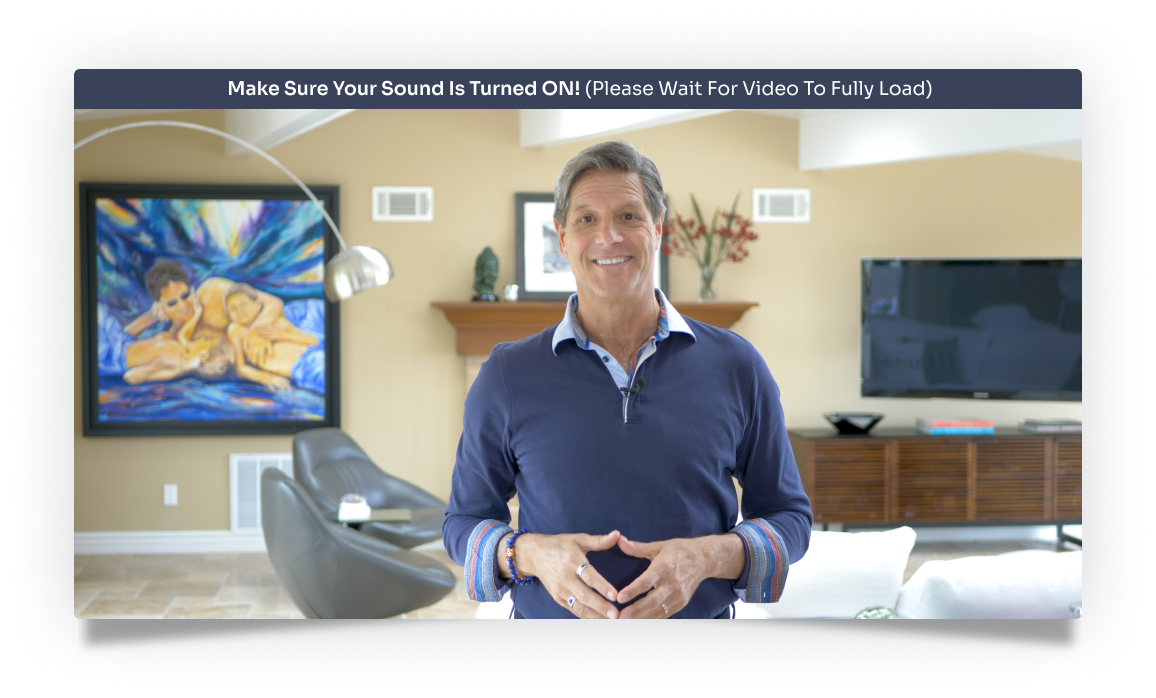
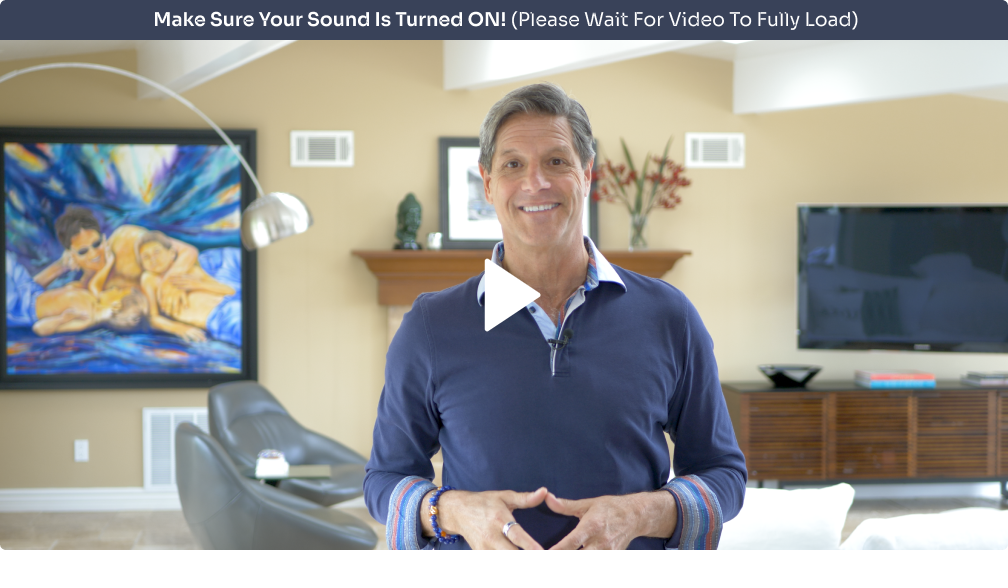
Updated the hero section background image to not move when scrolling. Updated John thumbnail for desktop. Added yellow streak to the proper lines in their respective sizes.

diff --git a/index.html b/index.html
@@ -35,78 +35,92 @@
                 <p class="m-0">ATTENTION: BUSINESS BREAKTHROUGH CHALLENGE ALUMNI MEMBERS...</p>
             </div>
         </section>
-        <section id="hero" class="container-fluid">
-            <div class="p-0 text-center mb-4">
-                <div class="row justify-content-center strategy-background">
-                    <div class="free-vip col-sm-10 col-lg-8">
-                        <p class="fw-bold text-center fs-1 text-light p-2 m-0 mt-5">Get FREE VIP ACCESS to the 5-Day
-                            Business Breakthrough Challenge</p>
+        <section id="hero">
+            <div class="container">
+                <div class="header-text justify-content-center">
+                    <h1 class="d-md-none text-center text-light" id="vip-mobile"><strong><span
+                                class="yellow-underline">Get
+                                FREE VIP</span>
+                            <br />
+                            ACCESS to the 5-Day<br /> <span id="BBC">Business
+                                Breakthrough Challenge</span></strong>
+                    </h1>
 
-                        <p class="text-center fs-4 text-light py-2 px-4 m-0">Get Instant Access to LIVE Q&As with John
-                            Assaraf
-                            for
-                            5 Days Straight
-                            (100%
-                            Free)</p>
-                    </div>
-                    <div class="row justify-content-center">
-                        <img class="img-fluid d-block d-sm-none" src="./img/video-thumbnail.png"
-                            alt="A video thumbnail of John Assaraf">
+                    <h1 class="d-none d-md-block text-center text-light"><strong><span
+                                class="yellow-underline-desktop">Get
+                                FREE VIP
+                                ACCESS</span>
+                            <br /> to the 5-Day Business <br />
+                            Breakthrough Challenge</strong>
+                    </h1>
 
-                        <img style="width: 80%;" class="img-fluid d-none d-md-block"
+                    <p class="text-center text-light m-0" id="instant-access">Get Instant Access to LIVE Q&As with
+                        <br /> John
+                        Assaraf for 5
+                        Days Straight (100% Free)
+                    </p>
+                </div>
+                <div class="row justify-content-center">
+                    <div class="col-auto">
+                        <img id="video-thumbnail-mobile" class="img-fluid d-block d-sm-none"
+                            src="./img/video-thumbnail.png" alt="A video thumbnail of John Assaraf">
+
+                        <img id="video-thumbnail" class="img-fluid d-none d-md-block"
                             src="./img/video-thumbnail-desktop.png" alt="A video thumbnail of John Assaraf">
-
-                        <div class="d-block d-sm-none">
-                            <img style="width: 80%;" class="img-fluid mb-4" src="./img/bussiness-row.png"
-                                alt="A picture of all the businesses">
-                        </div>
-
-                        <div class="d-none d-md-block">
-                            <img style="width: 80%;" class="img-fluid mb-4" src="./img/business-row-desktop.png"
-                                alt="A picture of all the businesses">
-                        </div>
-
-                        <div class="row justify-content-center align-items-center">
-                            <div class="col-auto d-none d-md-block">
-                                <img src="./img/left-vip-access-arrow.png" alt="Arrow pointing to the VIP button"
-                                    class="img-fluid">
-                            </div>
-                            <div class="col-md-auto">
-                                <a href="#" class="btn text-center rounded text-decoration-none text-light vip-access"
-                                    style="background: linear-gradient(180deg, rgba(255,163,0,1) 0%, rgba(255,122,0,1) 75%); 
-                            box-shadow: inset 0 -3px #EC5500;"><strong>Get Free VIP Access Now</strong><br />
-                                    <span>100%
-                                        Free VIP
-                                        ACCESS For
-                                        Previous
-                                        Members</span>
-                                </a>
-                            </div>
-                            <div class="col-auto d-none d-md-block">
-                                <img src="./img/vip-access-arrow.png" alt="Arrow pointing to the VIP button"
-                                    class="img-fluid">
-                            </div>
-                        </div>
-
-                        <div class="row justify-content-center">
-                            <p class="text-danger fw-bold text-center fs-5 p-1 mt-4 px-4 text-break col-md-8">ONLY
-                                Available
-                                For
-                                the First
-                                200
-                                People
-                                to
-                                Join!
-                                (A Savings
-                                of
-                                $3,679!)</p>
-                        </div>
                     </div>
                 </div>
+            </div>
+        </section>
+        <section id="offer">
+            <div class="container text-center">
+                <div class="col-auto pb-8">
+                    <div class="d-block d-sm-none px-4">
+                        <img class="img-fluid mb-4" src="./img/bussiness-row.png" alt="A picture of all the businesses">
+                    </div>
+
+                    <div class="d-none d-md-block">
+                        <img class="img-fluid mb-4" src="./img/business-row-desktop.png"
+                            alt="A picture of all the businesses">
+                    </div>
+                </div>
+
+                <div class="row justify-content-center align-items-center">
+                    <div class="col-auto d-none d-md-block">
+                        <img src="./img/left-vip-access-arrow.png" alt="Arrow pointing to the VIP button"
+                            class="img-fluid">
+                    </div>
+                    <div class="col-md-auto">
+                        <a href="#" class="btn text-center rounded text-decoration-none text-light vip-access" style="background: linear-gradient(180deg, rgba(255,163,0,1) 0%, rgba(255,122,0,1) 75%); 
+                        box-shadow: inset 0 -3px #EC5500;"><strong>Get Free VIP Access Now</strong><br />
+                            <span>100%
+                                Free VIP
+                                ACCESS For
+                                Previous
+                                Members</span>
+                        </a>
+                    </div>
+                    <div class="col-auto d-none d-md-block">
+                        <img src="./img/vip-access-arrow.png" alt="Arrow pointing to the VIP button" class="img-fluid">
+                    </div>
+                </div>
+            </div>
+
+            <div class="row justify-content-center">
+                <p class="text-danger fw-bold text-center text-break col-md-8" id="only-200">ONLY
+                    Available
+                    For
+                    the First
+                    200
+                    People
+                    to
+                    Join!
+                    (A Savings
+                    of
+                    $3,679!)</p>
+            </div>
         </section>
     </header>
     <main>
-
         <section id="packages" class="d-block d-sm-none">
             <div class="container border border-2 text-center rounded mt-5" style="width: 95%">
                 <div class="row">

diff --git a/style.css b/style.css
@@ -6,12 +6,40 @@ html {
     font-family: 'Nanum Pen Script', cursive;
 }
 
-.strategy-background {
-    background: url('./img/business-strategy-success-target-goals.png');
-    background-size: 100% 65%;
-    background-position: top;
-    background-attachment: fixed;
+#hero {
+    background-image: linear-gradient(180deg, rgba(61, 71, 180, 0.1) 400px, rgba(255, 255, 255, 1) 400px, rgba(255, 255, 255, 1) 100%), url('./img/business-strategy-success-target-goals.png');
+    background-size: 100% 75%;
     background-repeat: no-repeat;
+    padding-top: 10%;
+    padding-bottom: 5%;
+}
+
+.yellow-underline {
+    background-image: url('./img/yellow-strike.png');
+    background-position: center 36px;
+    background-size: 90%;
+    background-repeat: no-repeat;
+    display: inline-block;
+    font-size: 2.15rem;
+    padding-bottom: 5px;
+    width: 100%;
+}
+
+#vip-mobile {
+    font-size: 2.2rem;
+}
+
+#BBC {
+    font-size: 1.75rem;
+}
+
+#instant-access {
+    padding: 0 1rem;
+}
+
+#only-200 {
+    font-size: 1.25rem;
+    padding: 1.25rem 1rem;
 }
 
 footer {
@@ -45,11 +73,34 @@ footer a {
 
 @media only screen and (min-width: 768px) {
 
-    .strategy-background {
-        background: url('./img/business-strategy-success-target-goals-desktop.jpg') no-repeat;
-        background-position: top;
-        background-size: 100% 63%;
-        background-attachment: fixed;
+    #hero {
+        background-image: linear-gradient(180deg, rgba(6, 89, 203, 0.9) 580px, rgba(255, 255, 255, 1) 300px, rgba(255, 255, 255, 1) 100%), url('./img/business-strategy-success-target-goals.png');
+        background-size: 100%;
+        padding: 5% 0 2% 0;
+    }
+
+    #hero h1 {
+        font-size: 2.8rem;
+    }
+
+    .yellow-underline-desktop {
+        background-image: url('./img/yellow-strike.png');
+        background-position: center 51px;
+        background-size: 100%;
+        background-repeat: no-repeat;
+        display: inline-block;
+        font-size: 2.75rem;
+        padding-bottom: 10px;
+        width: 80%;
+    }
+
+    #instant-access {
+        font-size: 1.5rem;
+        padding: 1rem;
+    }
+
+    #only-200 {
+        padding: 2rem;
     }
 
     .checkmark {
@@ -68,5 +119,33 @@ footer a {
     .vip-access strong {
         text-transform: uppercase;
         font-size: 34px;
+    }
+}
+
+@media only screen and (min-width: 992px) {
+    #hero {
+        background-image: linear-gradient(180deg, rgba(6, 89, 203, 0.9) 680px, rgba(255, 255, 255, 1) 300px, rgba(255, 255, 255, 1) 100%), url('./img/business-strategy-success-target-goals.png');
+        padding: 4% 0;
+    }
+
+    #hero h1 {
+        font-size: 2.9rem;
+    }
+
+    #hero p {
+        padding-bottom: 3%;
+    }
+
+    .yellow-underline-desktop {
+        font-size: 2.75rem;
+        width: 55%;
+    }
+
+    #instant-access {
+        font-size: 1.25rem;
+    }
+
+    #only-200 {
+        width: 35%;
     }
 }
